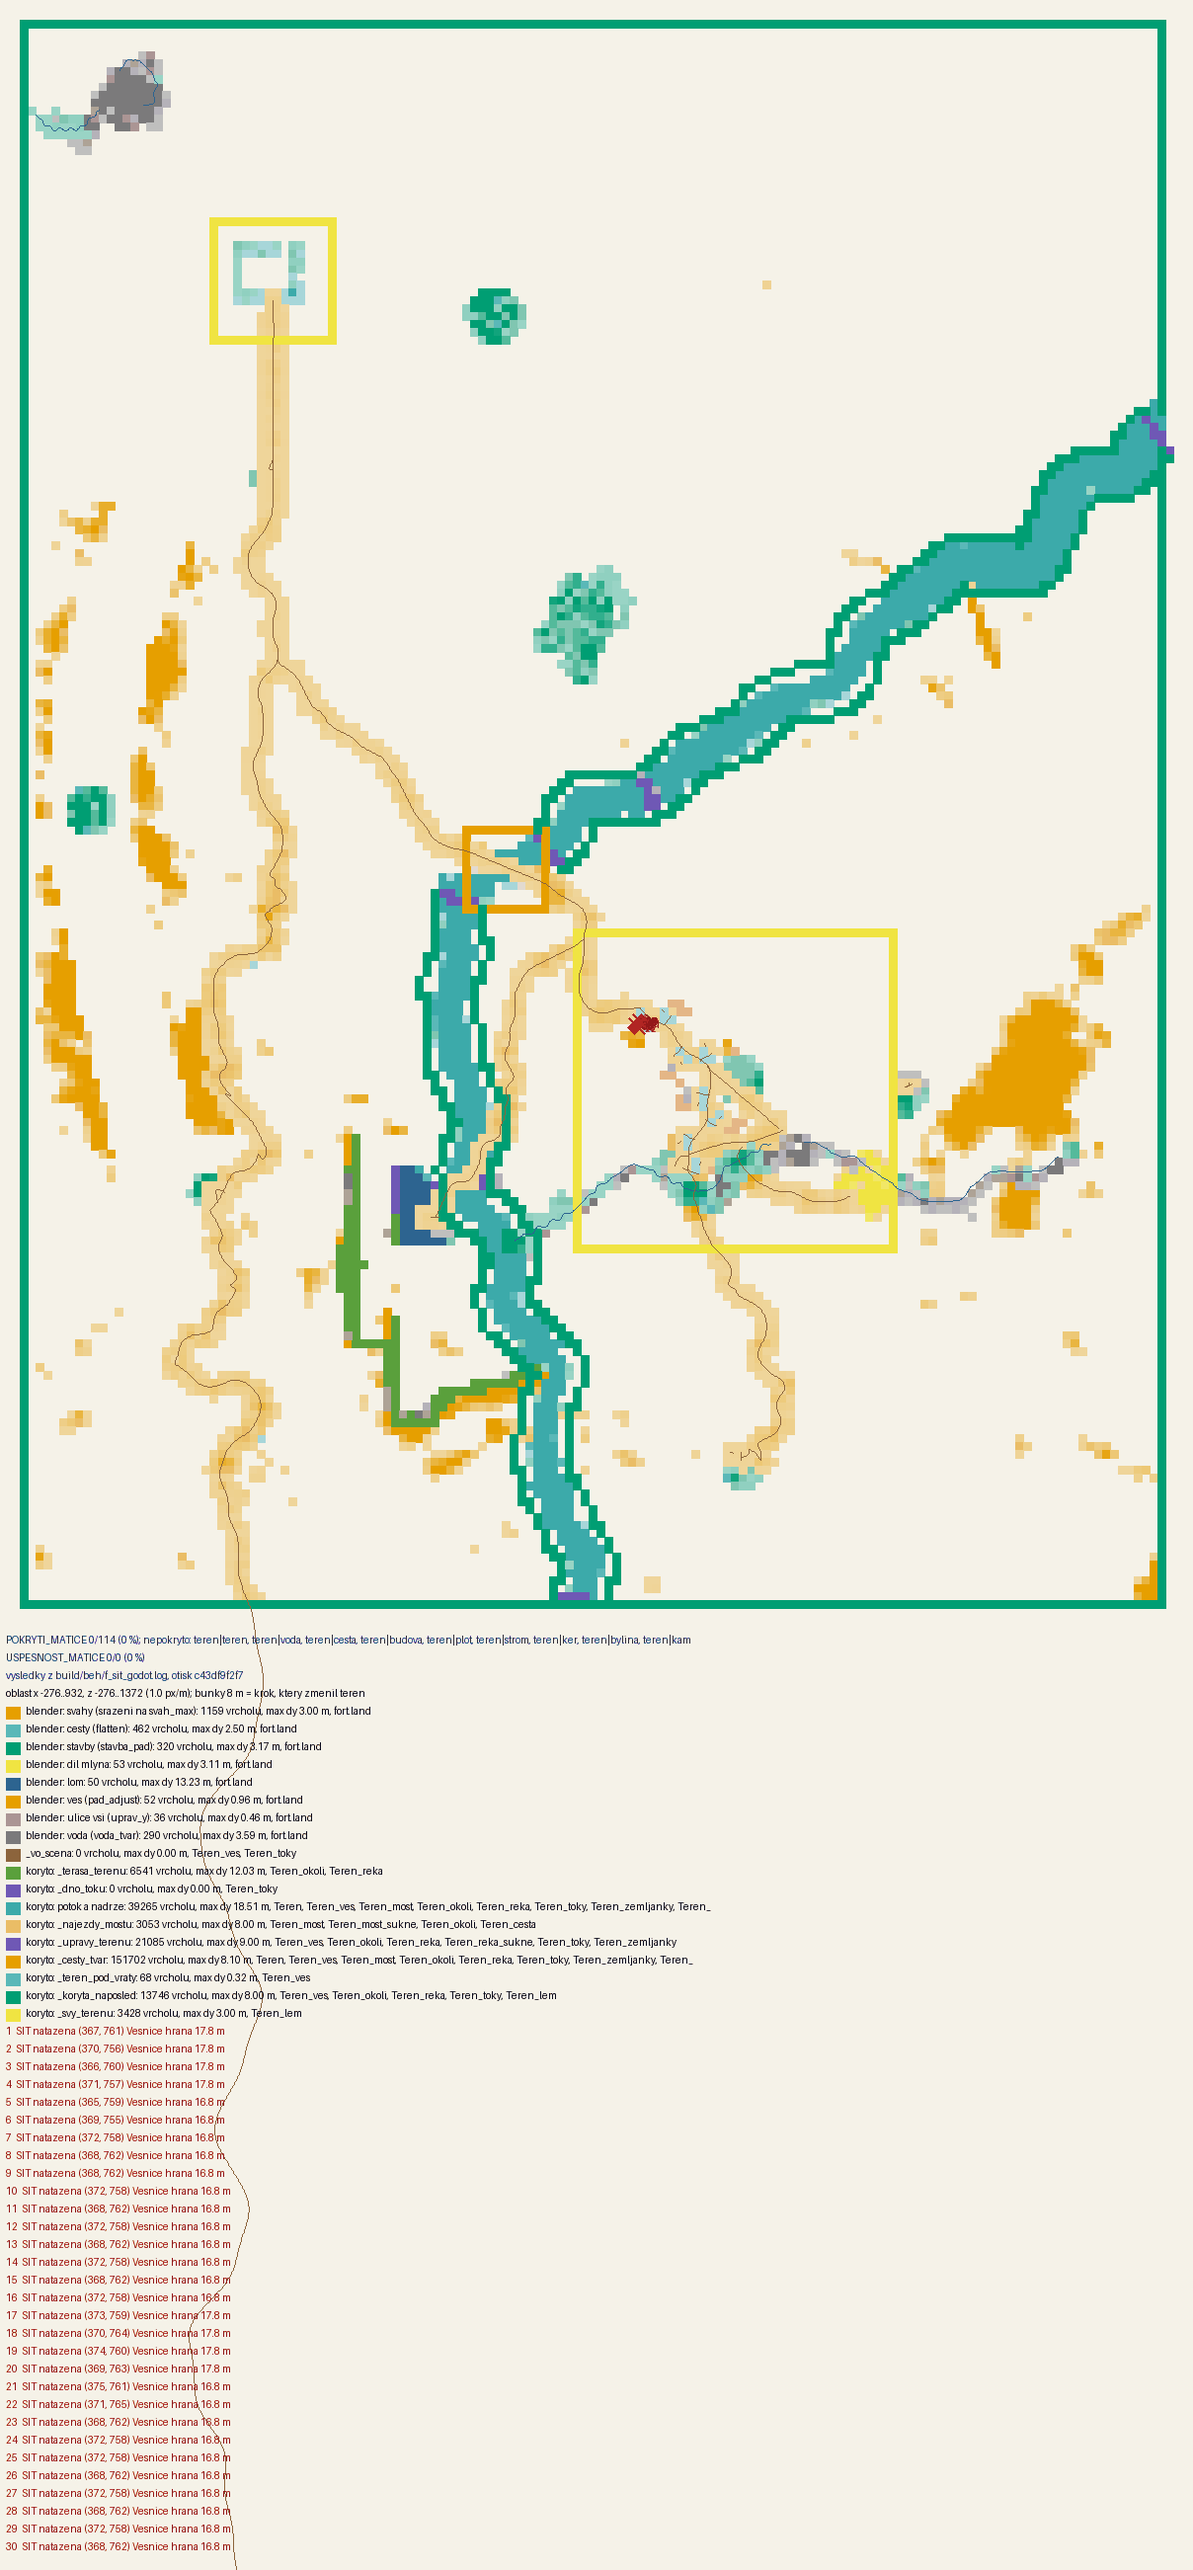
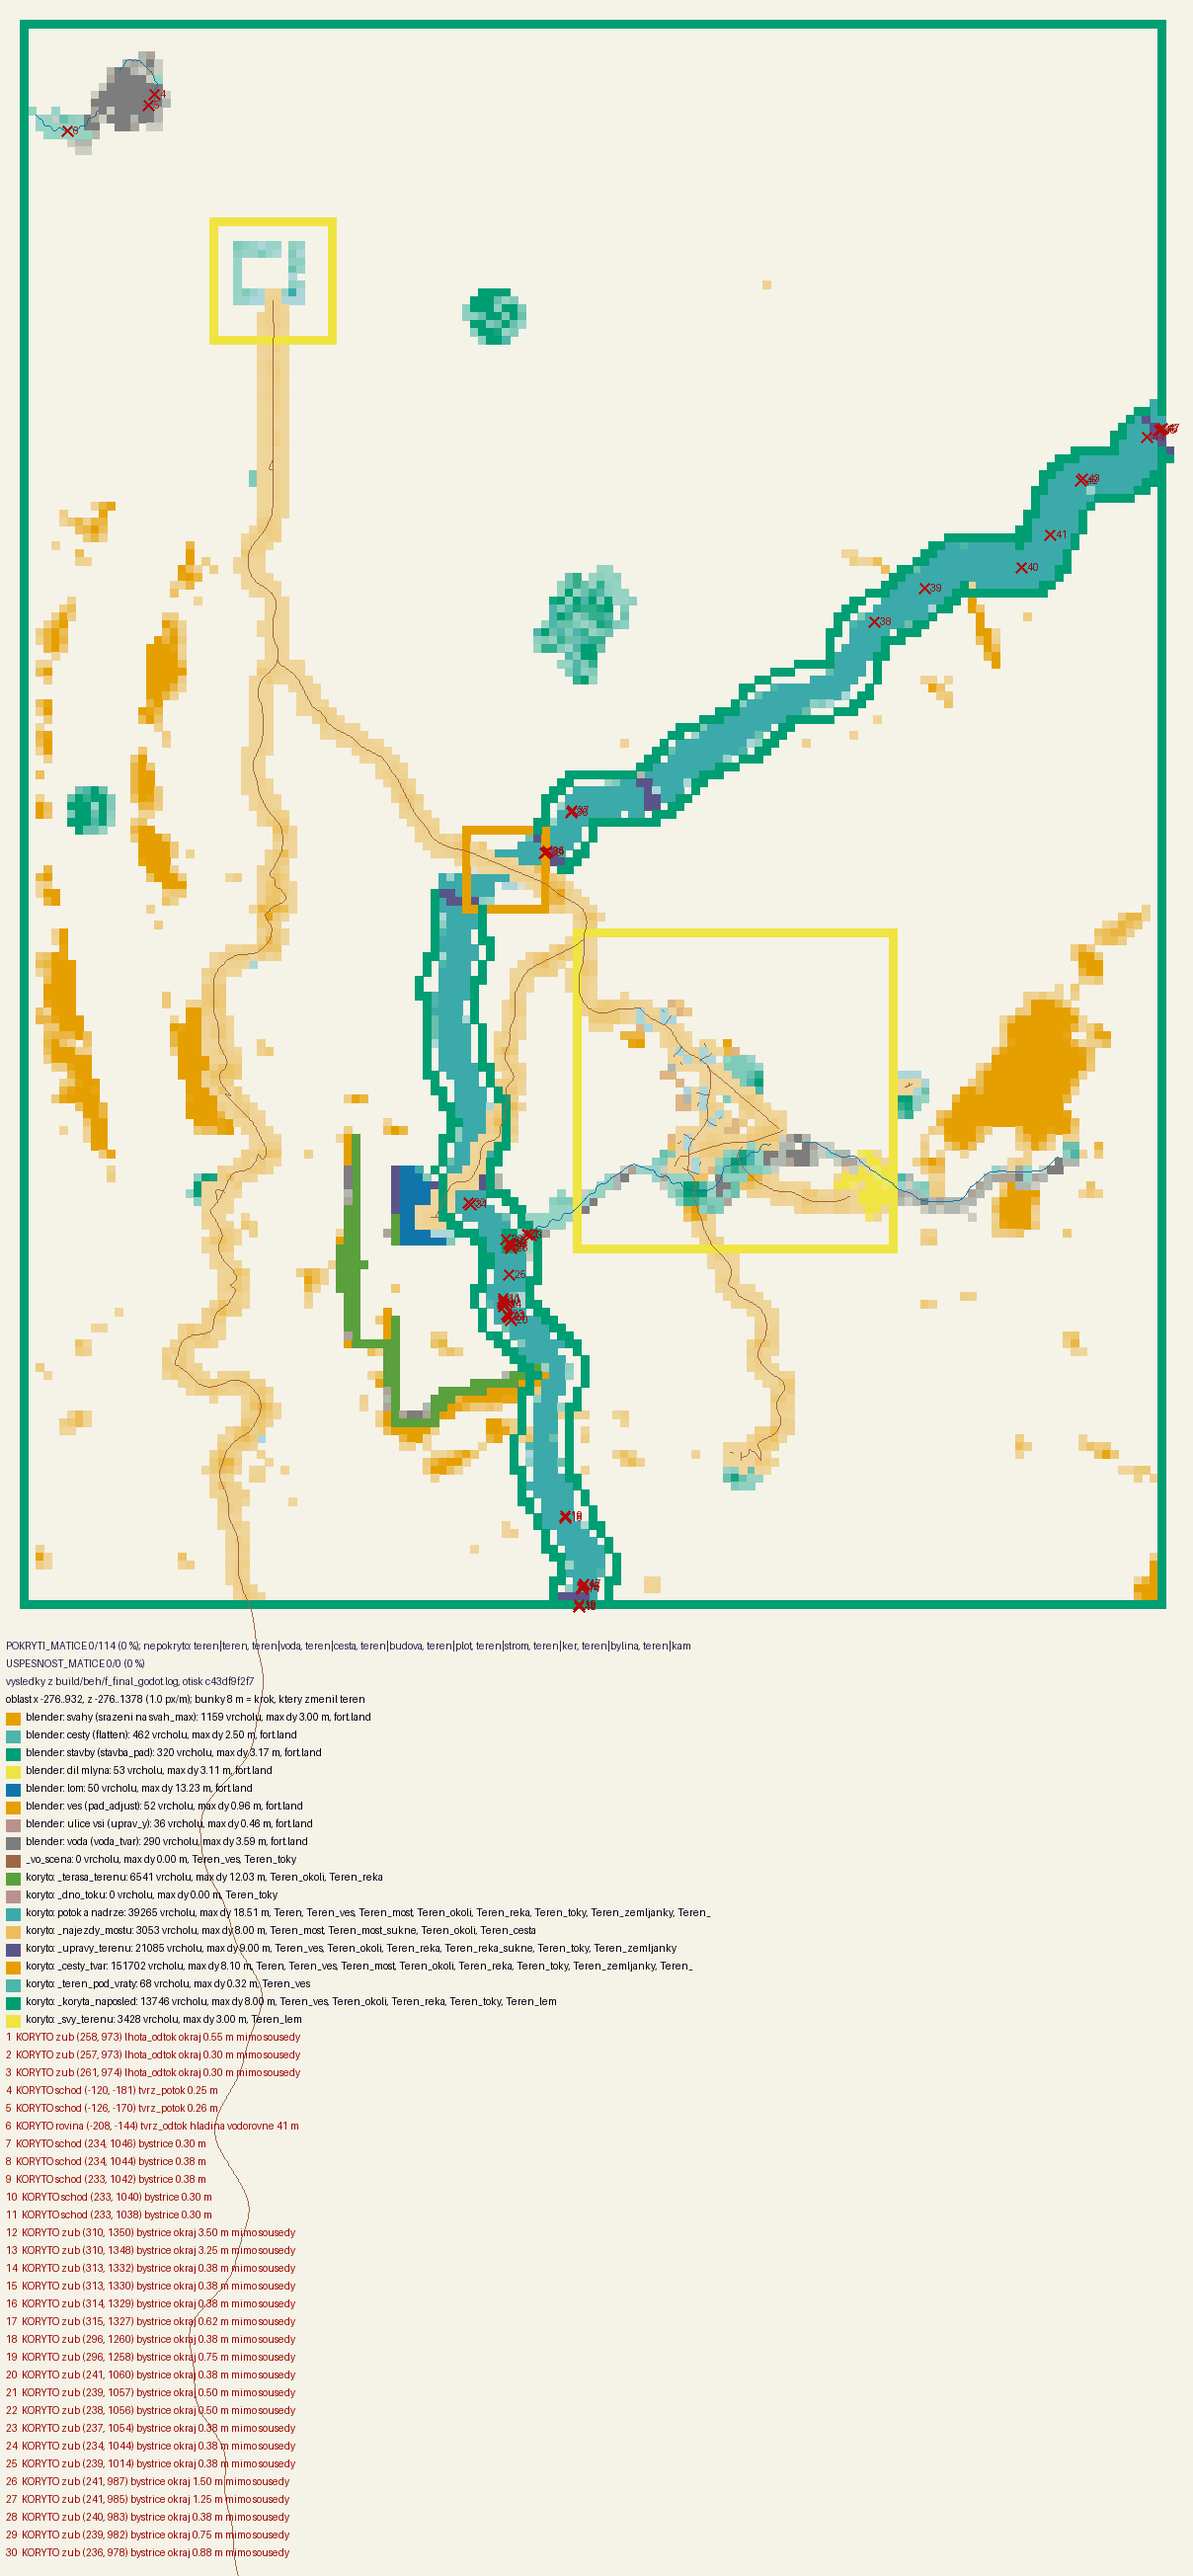
F3 mlyn_zlab: 2 neúspěšné opravy, podezření pro nový rozbor
Claude-Session: https://claude.ai/code/session_01DmjHzC3PfwG8Ks4aG4miuk

diff --git a/docs/rozpracovane/plan_18_11.md b/docs/rozpracovane/plan_18_11.md
@@ -151,6 +151,9 @@ F9. **predmety_cas** 7,18 ms `_vnitrek_krok` v komnatě (plna 16. 11.; ř. 75).
   (kraj.voda_tvar); `site_natazene` 36 = střecha stodoly usedlosti 1 (16,8 m, snímek build/f/f3_strecha.png bez vady) –
   planý poplach testu, 2 pokusy o výjimku (rámec domu, placky dvorce) nesedí, stodola je ve slité síti Vesnice bez záznamu;
   `stavby_na_zemi` ChysePrkna_22 +0,21 (tolerance 0,20; snímek f3_chyse.png v pořádku); `dil_okraj` mlýn 0,16 (mez 0,15).
+- F3 mlyn_zlab 24. 11.: 2 neúspěšné opravy (koryto lednice mimo díl; voda_tvar v dílu jen snižuje) – bod 6 (598,9; 914,0)
+  pořád −0,08 m pod Teren_toky. Třetí pokus NE – nový rozbor: PODEZŘENÍ jemný terén toku (kraj Teren_toky, bod()) bere výšku
+  interpolací z bodů hrubé sítě mimo díl (land_fn(x0)…land_fn(x1)), ne land_fn v bodě → protokol stavby bodu (TVRZ_SLED / protokol_blender).
 - F9 24. 11.: 45 ms z dávky = souběh s focením (sám test 4,9 ms). `_interier` procházel všechny záznamy předmětů každých 0,2 s
   (3,9 ms) → po částech `rozpocty.predmety_vnitrek.zaznamu_krok` 200, celý průchod jen při změně místnosti/viditelných
   místností: `_interier` 3,9 → 0,01–1,5 ms. Zbylé špičky 2,5–7 ms skáčou mezi běhy v `_vnitrek_krok` (rozpočet 1 ms) –
